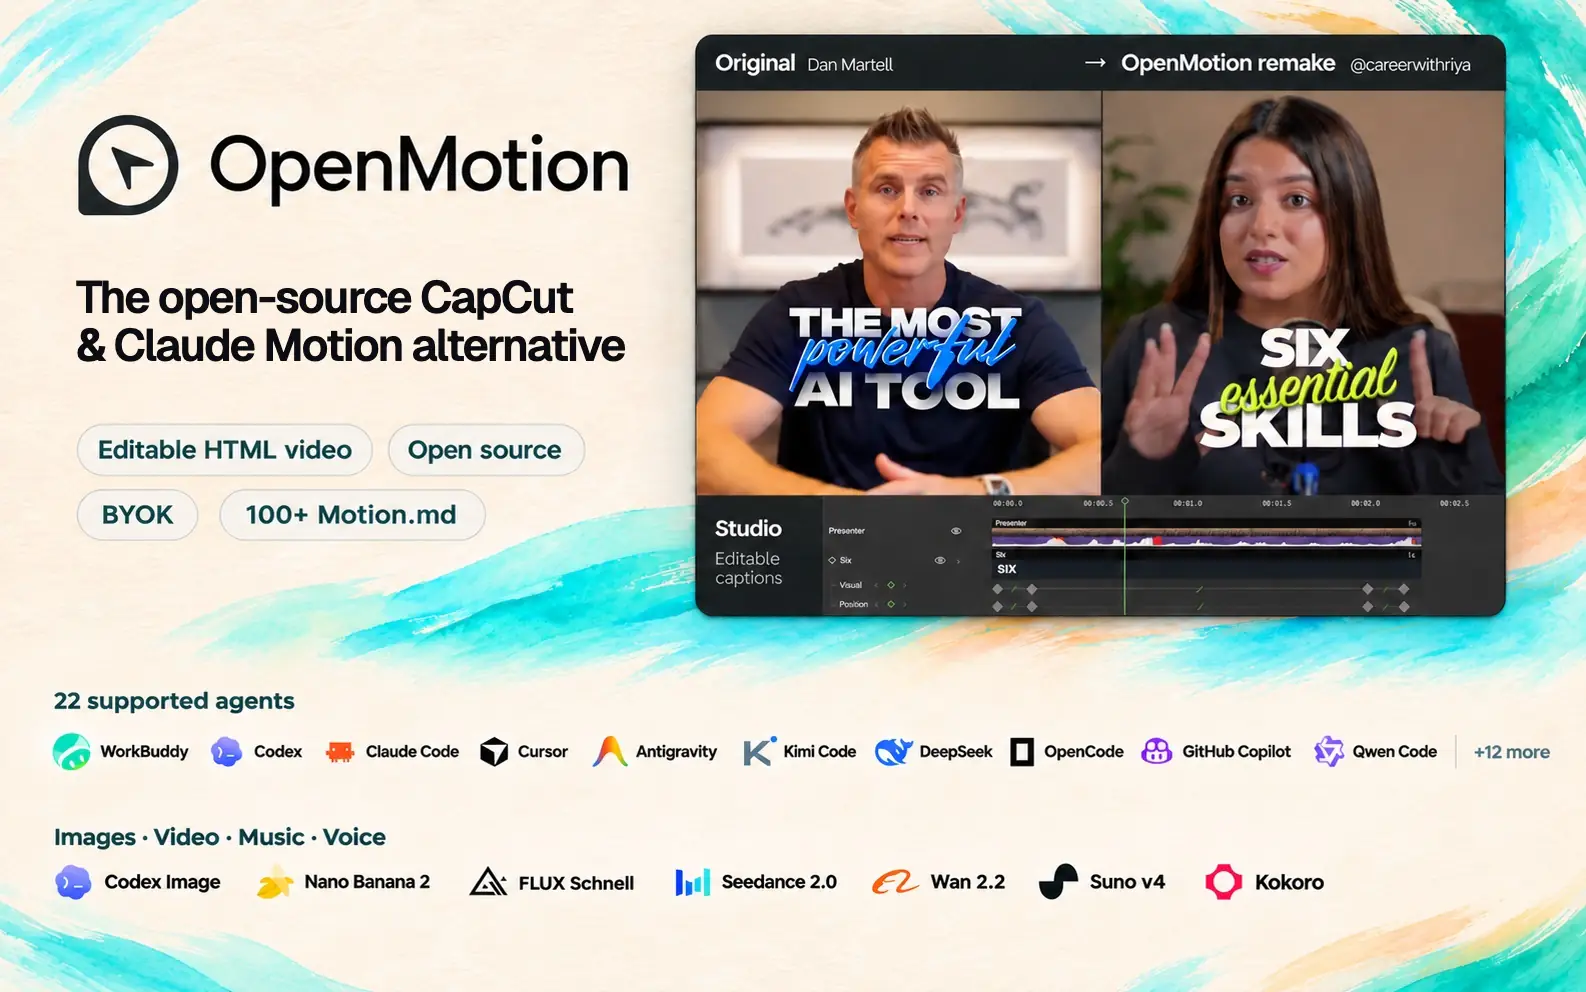
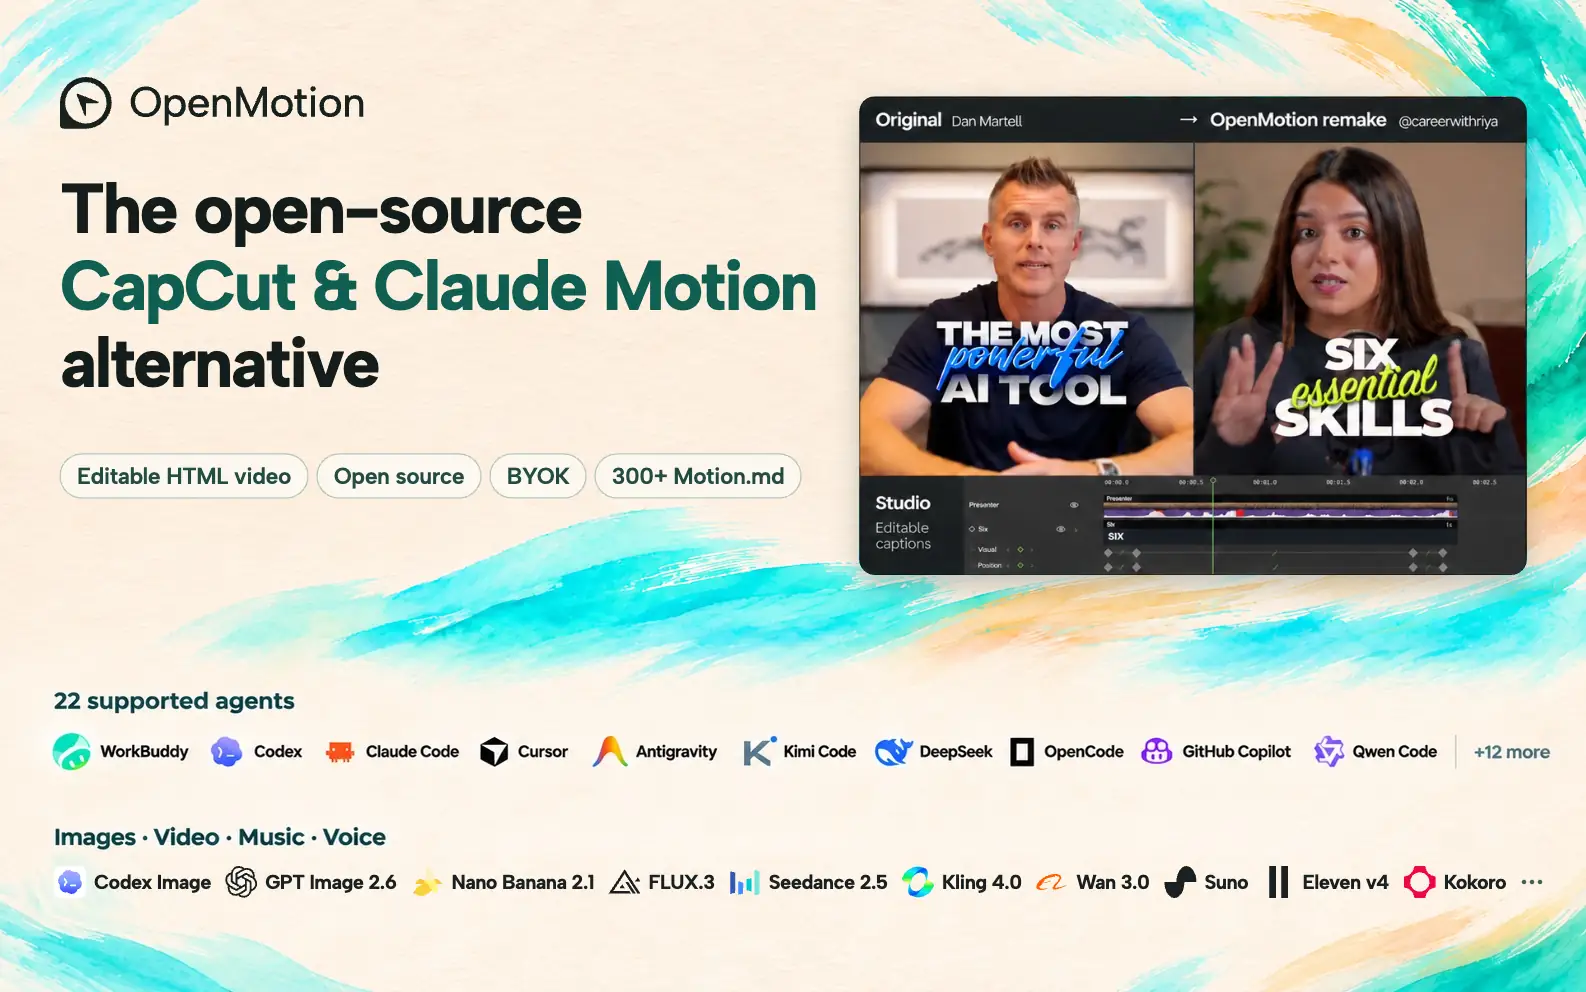
Refresh the multilingual README covers and featured media models

diff --git a/README.REVERSE-ENGINEERING.md b/README.REVERSE-ENGINEERING.md
@@ -3,7 +3,7 @@
 <p align="center"><strong>Reverse engineering for any video</strong></p>
 
 <p align="center">
-  <a href="docs/readme/media/presenter-caption-remake.mp4"><picture><source media="(max-width: 600px)" srcset="https://releases.open-design.ai/open-motion/media/sha256/730e1d6235820d39ba8adde42810d1165377992136a3b20290ad5d504abb527b.jpg"><img src="https://releases.open-design.ai/open-motion/media/sha256/730e1d6235820d39ba8adde42810d1165377992136a3b20290ad5d504abb527b.jpg" width="100%" alt="Dan Martell’s original beside an OpenMotion remake with Riya. A handwritten keyword sits between two lines of bold captions, with the editable Studio timeline below."></picture></a>
+  <a href="docs/readme/media/presenter-caption-remake.mp4"><img src="docs/readme/capcut-claude-motion-cover.webp" width="100%" alt="Dan Martell’s original beside an OpenMotion remake with Riya. A handwritten keyword sits between two lines of bold captions, with the editable Studio timeline below."></a>
 </p>
 
 <p align="center">
@@ -32,12 +32,12 @@
 
 # OpenMotion
 
-OpenMotion is **the first full-stack agentic video generator**. Upload a reference video or paste a social video link to **recreate it with your own footage, logo and copy**.
+OpenMotion is a **full-stack agentic video** studio and an **open-source alternative to CapCut and Claude Motion**. Upload a reference video or paste a social video link to **recreate it with your own footage, logo and copy**.
 
 - 🎬 **Full-stack video recreation.** Code video with HTML. Your agent breaks down the reference, rebuilds its shots and transitions, and generates missing assets. Edit the timing in Studio and render an MP4 from the same project.
 - 🔑 **BYOA — Bring Your Own Agent. BYOK — Bring Your Own Keys.** OpenMotion is free and open source. Recreate videos in [your local agent](#agent-wall) and use your own API keys at every layer.
 - 🧩 OpenMotion introduces **Motion.md**, a Markdown format for shot order, timing and transitions. Use it to share how a brand film works, shot by shot.
-- 🎛 **Images, video, music and voice.** Generate artwork with Nano Banana 2, add a shot with Seedance 2.0, score it with Suno v4 and narrate it with Kokoro. [Explore all seven built-in models](#model-wall).
+- 🎛 **Images, video, music and voice.** Create artwork with GPT Image 2.6, add a shot with Seedance 2.5, score it with Suno and narrate it with Eleven v4. [Explore the models and providers](#model-wall).
 
 <a id="agent-wall"></a>
 
@@ -334,7 +334,7 @@ The rotating field becomes a vinyl record; the title lands on its sleeve.<br>
 
 <a id="video-is-code"></a>
 
-### 1. The first full-stack agentic video generator
+### 1. A full-stack agentic video studio
 
 **Code video with HTML.** OpenMotion uses HTML, CSS and JavaScript to describe scenes, typography, layout, transitions and timing. Recorded footage, generated clips, images, music and voice-over become media inside the composition. The same project opens in Studio and renders to MP4.
 
@@ -412,7 +412,7 @@ Provider credentials stay in your workspace, separate from the video project. Yo
 
 <a id="make-your-motion-language-reusable"></a> <a id="motion-design-community"></a>
 
-### 3. 100+ Motion.md brand film studies + 890+ creative resources
+### 3. 300+ Motion.md brand film studies + 890+ creative resources
 
 OpenMotion introduces **Motion.md**. The first open-source collection breaks down brand films shot by shot, recording timing, transitions and the assets you can replace. In the [Stripe example](examples/brand-studies/stripe/MOTION.md), the flip stays on the same beat while a payment card becomes a film frame.
 
@@ -517,6 +517,8 @@ Select a preview to watch the clip. Entries marked “View component” also lin
 ### 4. Multimodal generation: images, video, music and speech
 
 **BYOK makes your multimodal accounts part of the video workflow.** Add your supported provider keys in **Model Settings**, choose your models, and generate images, video, music and speech through the Studio's **Model Gateway**. Preview candidates and adopt the results into the same project your agent and Studio edit. The supported local image path can reuse your existing agent login.
+
+Connect fal.ai in **Model Settings** and refresh its catalog to find GPT Image 2.6, Nano Banana 2.1, FLUX.3, Seedance 2.5, Kling 4.0, Wan 3.0 and Eleven v4. The presets below also appear before you refresh.
 
 <p><img src="docs/readme/models/codex.svg" width="133" alt="Codex Image">
 <img src="docs/readme/models/nano-banana.svg" width="133" alt="Nano Banana 2">

diff --git a/README.zh-CN.md b/README.zh-CN.md
@@ -1,9 +1,9 @@
 <p align="center"><img src="docs/readme/openmotion-logo.svg" width="420" alt="OpenMotion"></p>
 
-<p align="center"><strong>拆解并复刻任何视频</strong></p>
+<p align="center"><strong>CapCut 与 Claude Motion 的开源替代方案</strong></p>
 
 <p align="center">
-  <picture><source media="(max-width: 600px)" srcset="https://releases.open-design.ai/open-motion/media/sha256/45ee17734fb1315decef29c116fdd6794ee275fe83239328526b982a8ebe17ac.jpg"><img src="https://releases.open-design.ai/open-motion/media/sha256/45ee17734fb1315decef29c116fdd6794ee275fe83239328526b982a8ebe17ac.jpg" width="100%" alt="Dan Martell 原片与 OpenMotion 复刻并排展示：Riya 出镜，荧光黄手写关键词叠在两行白色粗体字幕之间。下方是 Studio 字幕时间轴。"></picture>
+  <img src="docs/readme/capcut-claude-motion-cover.zh-CN.webp" width="100%" alt="Dan Martell 原片与 OpenMotion 复刻并排展示：Riya 出镜，荧光黄手写关键词叠在两行白色粗体字幕之间。下方是 Studio 字幕时间轴。">
 </p>
 
 <p align="center">
@@ -33,12 +33,12 @@
 
 # OpenMotion
 
-OpenMotion 是 **首个全栈 Agentic 视频生成器**。上传参考视频或粘贴社交平台上的视频链接，就能**用自己的品牌视觉规范和文案复刻原片**。
+OpenMotion 是一个**由 AI Agent 驱动的全栈视频创作工作台**，也是 **CapCut 与 Claude Motion 的开源替代方案**。上传参考视频或粘贴社交平台上的视频链接，就能**用自己的品牌视觉规范和文案复刻原片**。
 
 - 🎬 **全栈视频复刻。** Agent 拆解参考片，用 HTML 重建镜头和转场，并生成缺少的素材。你可以在同一工程里用 Studio 调整剪辑节奏，再渲染导出 MP4。
 - 🔑 **BYOA（自带 Agent）与 BYOK（自带 API 密钥）。** OpenMotion 开源免费。直接在[常用的本地 Agent](#agent-wall) 里复刻视频，每一层都能用自己的 API 密钥。
 - 🧩 OpenMotion 首次定义了 **Motion.md**，用 Markdown 记录镜头顺序、时长和转场。品牌宣传片的拆解可以随工程一起分享。
-- 🎛 **图片、视频、音乐和语音。** 用 Nano Banana 2 生成图片、Seedance 2.0 补镜头、Suno v4 配乐、Kokoro 加旁白，再放进同一条时间轴。[查看 7 个内置模型](#model-wall)
+- 🎛 **图片、视频、音乐和语音。** 用 GPT Image 2.6 生成画面、Seedance 2.5 补镜头、Suno 配乐，再用 Eleven v4 生成旁白。[查看模型与接入方式](#model-wall)
 
 <a id="快速开始"></a> <a id="quick-start"></a>
 
@@ -283,7 +283,7 @@ npm start
 
 <a id="what-is-openmotion"></a> <a id="openmotion-是什么"></a> <a id="video-is-code"></a>
 
-### 1. 首个全栈 Agentic 视频生成器
+### 1. 全栈 Agentic 视频创作工作室
 
 **用 HTML 写视频。** OpenMotion 用 HTML、CSS、JavaScript 描述场景、字体、布局、转场和时间。实拍、生成片段、图片、音乐和旁白作为合成素材，同一工程可在 Studio 打开并渲染为 MP4。
 
@@ -367,7 +367,7 @@ npm start
 
 <a id="make-your-motion-language-reusable"></a> <a id="motion-design-community"></a>
 
-### 3. 100 多份 Motion.md，让视频复刻有据可循
+### 3. 300 多份 Motion.md，让视频复刻有据可循
 
 OpenMotion 首次定义了 **Motion.md**：用 Markdown 记录镜头顺序、时长、转场和可替换素材。线上模板库将参考视频与动效说明集中在同一个详情页。
 
@@ -396,6 +396,8 @@ Brand Kit 章节记录品牌身份、语气和已确认的产品信息；Design 
 ### 4. 多模态生成：图片、视频、音乐与语音
 
 **BYOK 将你的多模态账号接入视频工作流。** 在 **Model Settings** 添加受支持的 Key、选择模型，通过 Studio 的 **Model Gateway** 生成图片、视频、音乐和语音。预览候选并采用到同一工程。受支持的本地图片路径可复用已有 Agent 登录。
+
+在**模型设置**中连接 fal.ai 并刷新目录，即可查找 GPT Image 2.6、Nano Banana 2.1、FLUX.3、Seedance 2.5、Kling 4.0、Wan 3.0 和 Eleven v4。下方列出的预设在刷新前也可查看。
 
 <p><img src="docs/readme/models/codex.svg" width="133" alt="Codex Image">
 <img src="docs/readme/models/nano-banana.svg" width="133" alt="Nano Banana 2">

diff --git a/docs/README.zh-CN.md b/docs/README.zh-CN.md
@@ -1,9 +1,9 @@
 <p align="center"><img src="readme/openmotion-logo.svg" width="420" alt="OpenMotion"></p>
 
-<p align="center"><strong>拆解并复刻任何视频</strong></p>
+<p align="center"><strong>CapCut 与 Claude Motion 的开源替代方案</strong></p>
 
 <p align="center">
-  <picture><source media="(max-width: 600px)" srcset="https://releases.open-design.ai/open-motion/media/sha256/45ee17734fb1315decef29c116fdd6794ee275fe83239328526b982a8ebe17ac.jpg"><img src="https://releases.open-design.ai/open-motion/media/sha256/45ee17734fb1315decef29c116fdd6794ee275fe83239328526b982a8ebe17ac.jpg" width="100%" alt="Dan Martell 原片与 OpenMotion 复刻并排展示：Riya 出镜，荧光黄手写关键词叠在两行白色粗体字幕之间。下方是 Studio 字幕时间轴。"></picture>
+  <img src="readme/capcut-claude-motion-cover.zh-CN.webp" width="100%" alt="Dan Martell 原片与 OpenMotion 复刻并排展示：Riya 出镜，荧光黄手写关键词叠在两行白色粗体字幕之间。下方是 Studio 字幕时间轴。">
 </p>
 
 <p align="center">
@@ -33,12 +33,12 @@
 
 # OpenMotion
 
-OpenMotion 是 **首个全栈 Agentic 视频生成器**。上传参考视频或粘贴社交平台上的视频链接，就能**用自己的品牌视觉规范和文案复刻原片**。
+OpenMotion 是一个**由 AI Agent 驱动的全栈视频创作工作台**，也是 **CapCut 与 Claude Motion 的开源替代方案**。上传参考视频或粘贴社交平台上的视频链接，就能**用自己的品牌视觉规范和文案复刻原片**。
 
 - 🎬 **全栈视频复刻。** Agent 拆解参考片，用 HTML 重建镜头和转场，并生成缺少的素材。你可以在同一工程里用 Studio 调整剪辑节奏，再渲染导出 MP4。
 - 🔑 **BYOA（自带 Agent）与 BYOK（自带 API 密钥）。** OpenMotion 开源免费。直接在[常用的本地 Agent](#agent-wall) 里复刻视频，每一层都能用自己的 API 密钥。
 - 🧩 OpenMotion 首次定义了 **Motion.md**，用 Markdown 记录镜头顺序、时长和转场。品牌宣传片的拆解可以随工程一起分享。
-- 🎛 **图片、视频、音乐和语音。** 用 Nano Banana 2 生成图片、Seedance 2.0 补镜头、Suno v4 配乐、Kokoro 加旁白，再放进同一条时间轴。[查看 7 个内置模型](#model-wall)
+- 🎛 **图片、视频、音乐和语音。** 用 GPT Image 2.6 生成画面、Seedance 2.5 补镜头、Suno 配乐，再用 Eleven v4 生成旁白。[查看模型与接入方式](#model-wall)
 
 <a id="快速开始"></a> <a id="quick-start"></a>
 
@@ -283,7 +283,7 @@ npm start
 
 <a id="what-is-openmotion"></a> <a id="openmotion-是什么"></a> <a id="video-is-code"></a>
 
-### 1. 首个全栈 Agentic 视频生成器
+### 1. 全栈 Agentic 视频创作工作室
 
 **用 HTML 写视频。** OpenMotion 用 HTML、CSS、JavaScript 描述场景、字体、布局、转场和时间。实拍、生成片段、图片、音乐和旁白作为合成素材，同一工程可在 Studio 打开并渲染为 MP4。
 
@@ -367,7 +367,7 @@ npm start
 
 <a id="make-your-motion-language-reusable"></a> <a id="motion-design-community"></a>
 
-### 3. 100 多份 Motion.md，让视频复刻有据可循
+### 3. 300 多份 Motion.md，让视频复刻有据可循
 
 OpenMotion 首次定义了 **Motion.md**：用 Markdown 记录镜头顺序、时长、转场和可替换素材。线上模板库将参考视频与动效说明集中在同一个详情页。
 
@@ -396,6 +396,8 @@ Brand Kit 章节记录品牌身份、语气和已确认的产品信息；Design 
 ### 4. 多模态生成：图片、视频、音乐与语音
 
 **BYOK 将你的多模态账号接入视频工作流。** 在 **Model Settings** 添加受支持的 Key、选择模型，通过 Studio 的 **Model Gateway** 生成图片、视频、音乐和语音。预览候选并采用到同一工程。受支持的本地图片路径可复用已有 Agent 登录。
+
+在**模型设置**中连接 fal.ai 并刷新目录，即可查找 GPT Image 2.6、Nano Banana 2.1、FLUX.3、Seedance 2.5、Kling 4.0、Wan 3.0 和 Eleven v4。下方列出的预设在刷新前也可查看。
 
 <p><img src="readme/models/codex.svg" width="133" alt="Codex Image">
 <img src="readme/models/nano-banana.svg" width="133" alt="Nano Banana 2">

diff --git a/docs/readme/ASSETS.md b/docs/readme/ASSETS.md
@@ -25,7 +25,8 @@ The local agent gallery and setup buttons use client marks from the [source icon
 | Asset | Source and use |
 | --- | --- |
[1 lines of base64/hex data omitted]
-| [README cover](https://releases.open-design.ai/open-motion/media/sha256/730e1d6235820d39ba8adde42810d1165377992136a3b20290ad5d504abb527b.jpg) · [简体中文](https://releases.open-design.ai/open-motion/media/sha256/45ee17734fb1315decef29c116fdd6794ee275fe83239328526b982a8ebe17ac.jpg) · [日本語](https://releases.open-design.ai/open-motion/media/sha256/1b567187bc527cc99f8ef2c91c41c9adf5fa91fa9bbc5f8e2f579ad9c7837a46.jpg) | Dan Martell’s talking-head reference and the OpenMotion caption remake with @careerwithriya, with a capture of the editable Studio timeline. The English hero is also reused unchanged for website Open Graph and Twitter sharing at 1586 × 992. The desktop and mobile covers open the [2.4-second comparison](media/presenter-caption-remake.mp4). [Footage and edit credits](reverse-engineering-cover.md) |
+| [README cover](capcut-claude-motion-cover.webp) · [简体中文](capcut-claude-motion-cover.zh-CN.webp) · [日本語](capcut-claude-motion-cover.ja.webp) | OpenMotion positioning and feature labels on a watercolor background. The presenter comparison, Studio timeline and agent lineup use the corresponding language version of the prior cover. Model marks use the [credited icon collection](models/README.md), including its Kling mark and the OpenAI mark from the design system. Versions reflect the [provider catalog](https://fal.ai/explore/models). [Footage and edit credits](reverse-engineering-cover.md) |
+| [Prior README cover](https://releases.open-design.ai/open-motion/media/sha256/730e1d6235820d39ba8adde42810d1165377992136a3b20290ad5d504abb527b.jpg) · [简体中文](https://releases.open-design.ai/open-motion/media/sha256/45ee17734fb1315decef29c116fdd6794ee275fe83239328526b982a8ebe17ac.jpg) · [日本語](https://releases.open-design.ai/open-motion/media/sha256/1b567187bc527cc99f8ef2c91c41c9adf5fa91fa9bbc5f8e2f579ad9c7837a46.jpg) | Dan Martell’s talking-head reference and the OpenMotion caption remake with @careerwithriya, with a capture of the editable Studio timeline. The English hero is also reused unchanged for website Open Graph and Twitter sharing at 1586 × 992. The desktop and mobile covers open the [2.4-second comparison](media/presenter-caption-remake.mp4). [Footage and edit credits](reverse-engineering-cover.md) |
 | [Earlier cover](https://releases.open-design.ai/open-motion/media/sha256/cfeb12861412bd36d34000ee1fe6d7f4e7b124ac9cad680d595c3cb44708eead.png) | Previous AI-editing positioning, preserved as artwork history; no longer the main README cover. |
 | [Animated cover](https://releases.open-design.ai/open-motion/media/sha256/6f6379825bac5cc67ee2d8fdc328ec25a16eea64fdac420f358092ddae95ad47.gif) | Optional 800 × 400 camera-breath loop from the same cover; 32 frames, approximately 4 seconds, infinite loop. Brand motion, not recorded application behavior. |
 | [Social preview](https://releases.open-design.ai/open-motion/media/sha256/9683e195639f5f6a54524f33fe4c7c3f4ec47efebb97fc93e4ec38895dd08412.jpg) | 1280 × 640 sharing image derived from the cover. |

diff --git a/README.md b/README.md
@@ -33,12 +33,12 @@
 
 # OpenMotion
 
-OpenMotion is a **full-stack agentic video generator** and an **open-source alternative to CapCut and Claude Motion**. Upload a reference video or paste a social video link to **recreate it with your own brand kit and copy**.
+OpenMotion is a **full-stack agentic video** studio and an **open-source alternative to CapCut and Claude Motion**. Upload a reference video or paste a social video link to **recreate it with your own brand kit and copy**.
 
 - 🎬 **Full-stack video recreation.** Code video with HTML. Your agent breaks down the reference, rebuilds its shots and transitions, and generates missing assets. Edit the timing in Studio and render an MP4 from the same project.
 - 🔑 **BYOA — Bring Your Own Agent. BYOK — Bring Your Own Keys.** OpenMotion is free and open source. Recreate videos in [your local agent](#agent-wall) with your own API keys. Supported agents include Claude Code, Codex, and WorkBuddy.
 - 🧩 OpenMotion introduces **Motion.md**, a Markdown format for shot order, timing and transitions. Use it to share how a brand film works, shot by shot.
-- 🎛 **Images, video, music and voice.** Generate artwork with Nano Banana 2, add a shot with Seedance 2.0, score it with Suno v4 and narrate it with Kokoro. [Explore all seven built-in models](#model-wall).
+- 🎛 **Images, video, music and voice.** Create artwork with GPT Image 2.6, add a shot with Seedance 2.5, score it with Suno and narrate it with Eleven v4. [Explore the models and providers](#model-wall).
 
 <a id="快速开始"></a> <a id="quick-start"></a>
 
@@ -283,7 +283,7 @@ Product tutorial + live demonstration<br>
 
 <a id="what-is-openmotion"></a> <a id="openmotion-是什么"></a> <a id="video-is-code"></a>
 
-### 1. The first full-stack agentic video generator
+### 1. A full-stack agentic video studio
 
 **Code video with HTML.** OpenMotion uses HTML, CSS and JavaScript to describe scenes, typography, layout, transitions and timing. Recorded footage, generated clips, images, music and voice-over become media inside the composition. The same project opens in Studio and renders to MP4.
 
@@ -369,7 +369,7 @@ Provider credentials stay in your workspace, separate from the video project. Yo
 
 <a id="make-your-motion-language-reusable"></a> <a id="motion-design-community"></a>
 
-### 3. 100+ Motion.md guides for video recreation
+### 3. 300+ Motion.md guides for video recreation
 
 OpenMotion introduces **Motion.md**: a Markdown format for shot order, timing, transitions and the assets you can replace. The online library brings reference videos and their motion guides into the same detail page.
 
@@ -398,6 +398,8 @@ Reference-only entries start a reconstruction workflow. When editable source is 
 ### 4. Multimodal generation: images, video, music and speech
 
 **BYOK makes your multimodal accounts part of the video workflow.** Add your supported provider keys in **Model Settings**, choose your models, and generate images, video, music and speech through the Studio's **Model Gateway**. Preview candidates and adopt the results into the same project your agent and Studio edit. The supported local image path can reuse your existing agent login.
+
+Connect fal.ai in **Model Settings** and refresh its catalog to find GPT Image 2.6, Nano Banana 2.1, FLUX.3, Seedance 2.5, Kling 4.0, Wan 3.0 and Eleven v4. The presets below also appear before you refresh.
 
 <p><img src="docs/readme/models/codex.svg" width="133" alt="Codex Image">
 <img src="docs/readme/models/nano-banana.svg" width="133" alt="Nano Banana 2">
